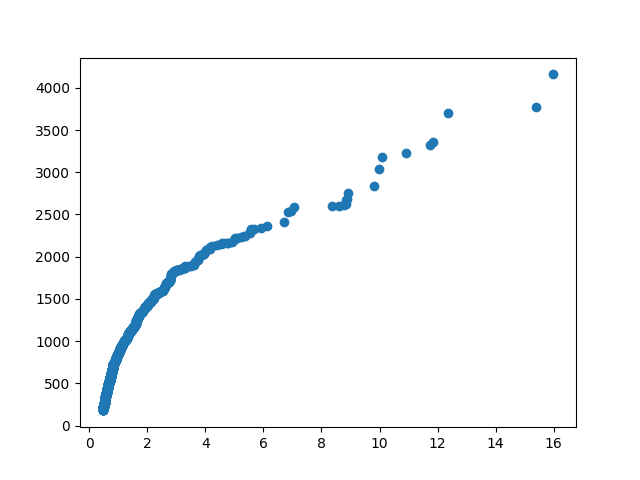
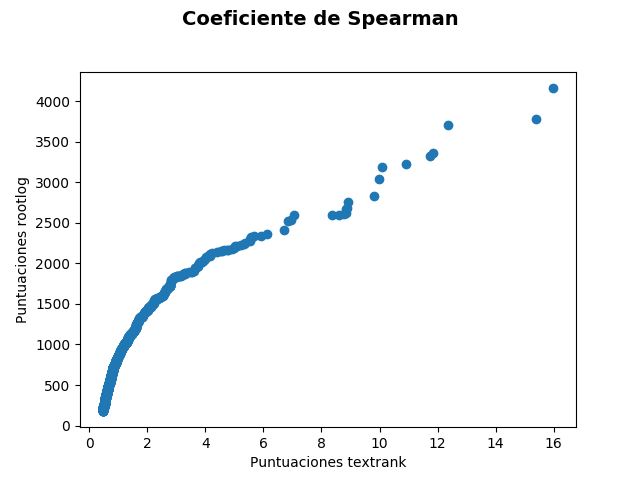
regression tests

diff --git a/app/common/spearman.py b/app/common/spearman.py
@@ -20,7 +20,7 @@ class Spearman:
     def __init__(self):
         lh.logger.debug('Initializing %s.', self.__class__.__name__)
         self.trwords = persistence.load_json(self.TRWORDS_FILE)
-        self.rlwords = persistence.load_json(self.RLWORDS_FILE) 
+        self.rlwords = persistence.load_json(self.RLWORDS_FILE)
 
     def get_common(self):
 
@@ -68,6 +68,7 @@ class Spearman:
 
         return x, y
 
+
 class SpearmanClient:
 
     SCATTER_PICTURE = 'app/images/spearman.png'
@@ -77,13 +78,20 @@ class SpearmanClient:
 
     def get_plot(self, save=False):
         x, y = self.spearman.get_values()
-        rho, p_value = self.spearman.calculate(x,y)
+        rho, p_value = self.spearman.calculate(x, y)
         print(rho)
-        plt.scatter(x, y)
+        fig = plt.figure()
+        fig.suptitle('Coeficiente de Spearman', fontsize=14, fontweight='bold')
+        ax = fig.add_subplot(111)
+        fig.subplots_adjust(top=0.85)
+        ax.set_xlabel('Puntuaciones textrank')
+        ax.set_ylabel('Puntuaciones rootlog')
+        scatter = plt.scatter(x, y)
+
         if save:
-            plt.savefig(self.SCATTER_PICTURE)
+          plt.savefig(self.SCATTER_PICTURE)
         else:
-            plt.show()
+          plt.show()
 
 
 def main():
@@ -91,4 +99,3 @@ def main():
     spcli.get_plot(True)
 
 
-main()

diff --git a/app/common/validation.py b/app/common/validation.py
@@ -101,6 +101,19 @@ def top_posts(n=100000):
 
     return top100, less100
 
+def save_top_posts():
+    top100, less100 = top_posts()
+    top100_dct = {}
+    less100_dct = {}
+
+    for post in top100:
+        top100_dct[post.id] = post.originaltext
+
+    for post in less100:
+        less100_dct[post.id] = post.originaltext
+
+    persistence.save_json(top100_dct, 'app/output/top_publications.json')
+    persistence.save_json(less100_dct, 'app/output/less_publications.json')
 
 def get_positives(n):
     '''Calculates the true positives.    
@@ -163,5 +176,3 @@ def main():
 
     lh.logger.debug('Done.')
 
-
-main()

diff --git a/app/common/users.py b/app/common/users.py
@@ -194,6 +194,7 @@ def main():
     for prediction in predicted:
         post = posts_addiction[index]
         user = post.user
+        print(user)
         if prediction == 2:
             if user not in userlst and user != '[deleted]':
                 index += 1

diff --git a/app/common/rootloglikelihood.py b/app/common/rootloglikelihood.py
@@ -190,3 +190,10 @@ class RootLogClient:
         persistence.save_json(order_scores, self.OUTPUT)
         
         return order_scores 
+
+
+def main():
+    rlcli = RootLogClient()
+    words = rlcli.get_ranked_words()
+    lh.logger.debug('Done')
+

diff --git a/app/common/rbo.py b/app/common/rbo.py
@@ -93,10 +93,5 @@ def main():
     rboclient.set_rbo()
     rbo = rboclient.get_rbo()
     a, b, c = rbo.overlap(1000)
-    print(a)
-    print(b)
-    print(c)
     print(_cusfloformat(rbo.rbo_min(.8, 15)))
 
-
-main()

diff --git a/app/common/textrank.py b/app/common/textrank.py
@@ -249,5 +249,4 @@ class TextRankClient:
 def main():
     trcli = TextRankClient()
     words = trcli.get_words()
-    print(words)
-    print(len(words))
+    lh.logger.debug('Done.')
